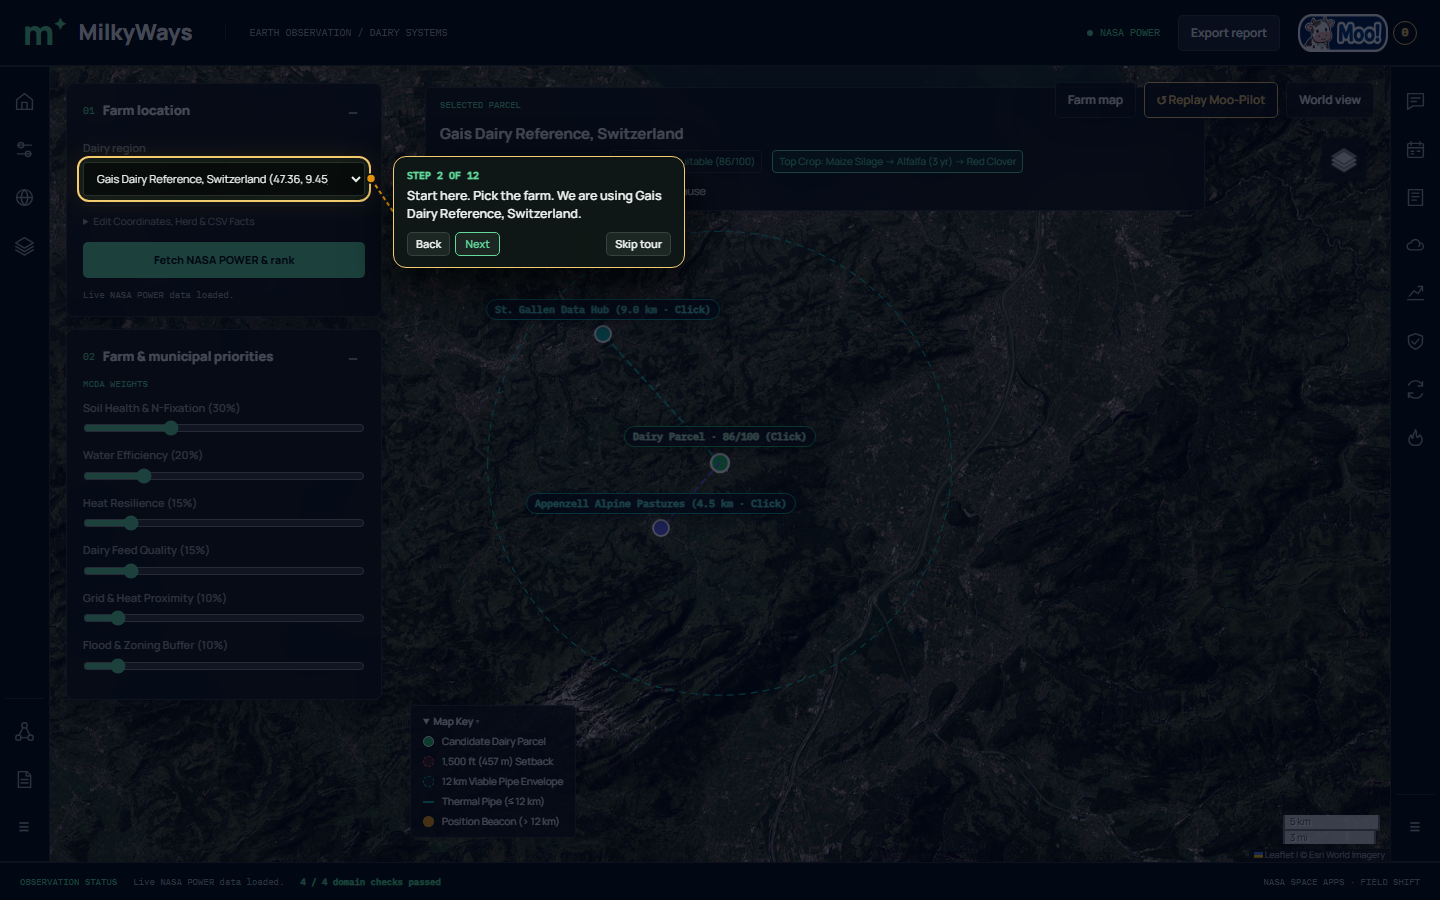
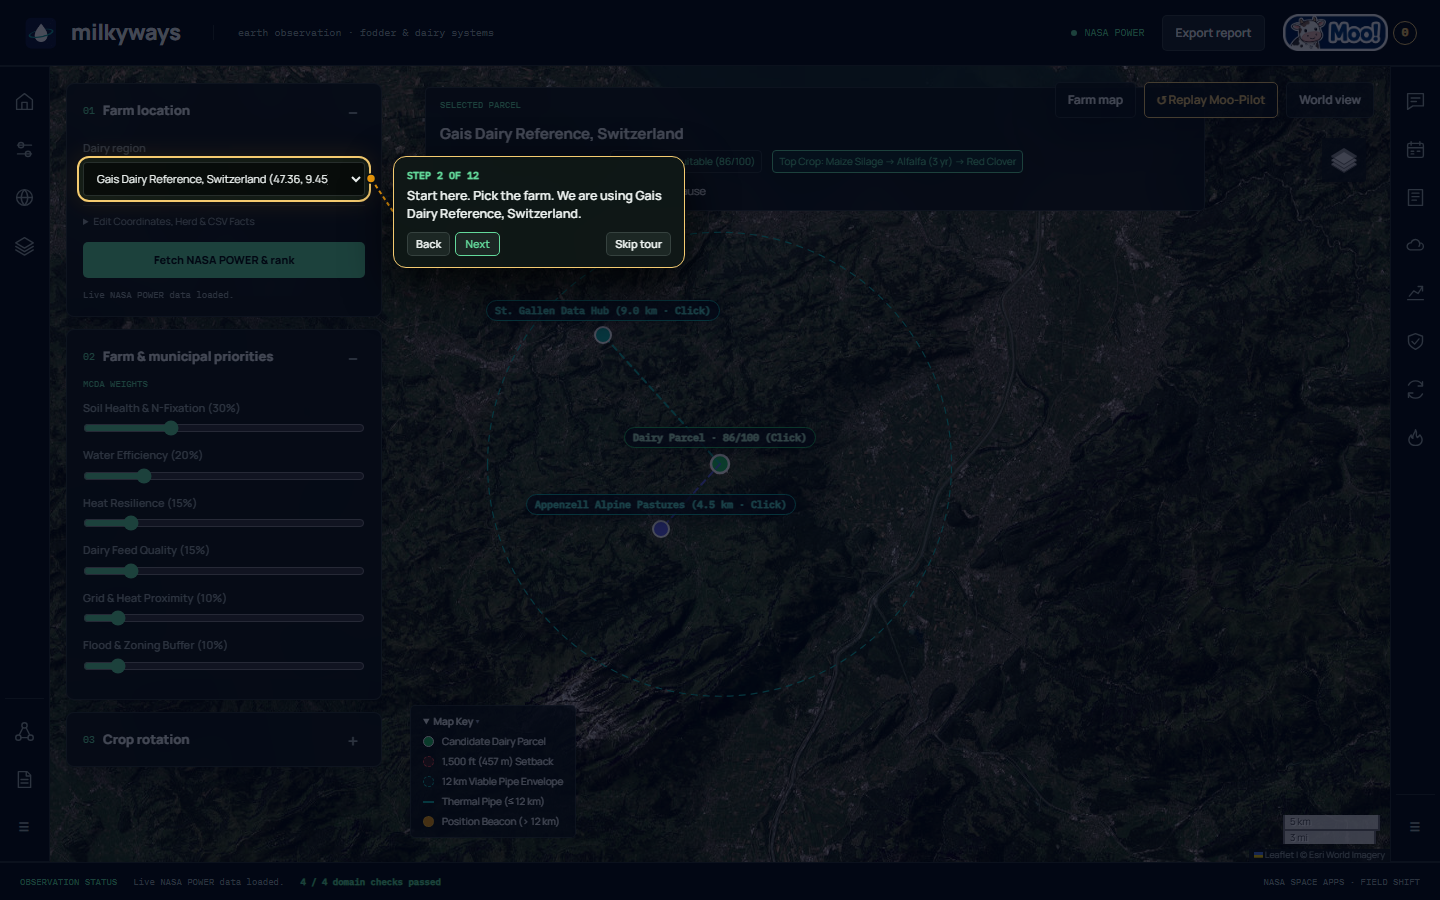
Ensure enterFarmMap centers Leaflet on selected farm coordinates (Gais 47.36, 9.45)

diff --git a/docs/app/index.html b/docs/app/index.html
@@ -2847,7 +2847,9 @@
           mcdaMap.on("move zoom", () => { if (mpActive) redrawCurrentStep(); });
         }
         mcdaMap.invalidateSize();
-        if (typeof zoomLevel === "number") mcdaMap.setZoom(zoomLevel);
+        const lat = parseFloat(el("lat")?.value) || 47.36;
+        const lon = parseFloat(el("lon")?.value) || 9.45;
+        if (typeof zoomLevel === "number") mcdaMap.setView([lat, lon], zoomLevel, { animate: false });
       }
     }
 
